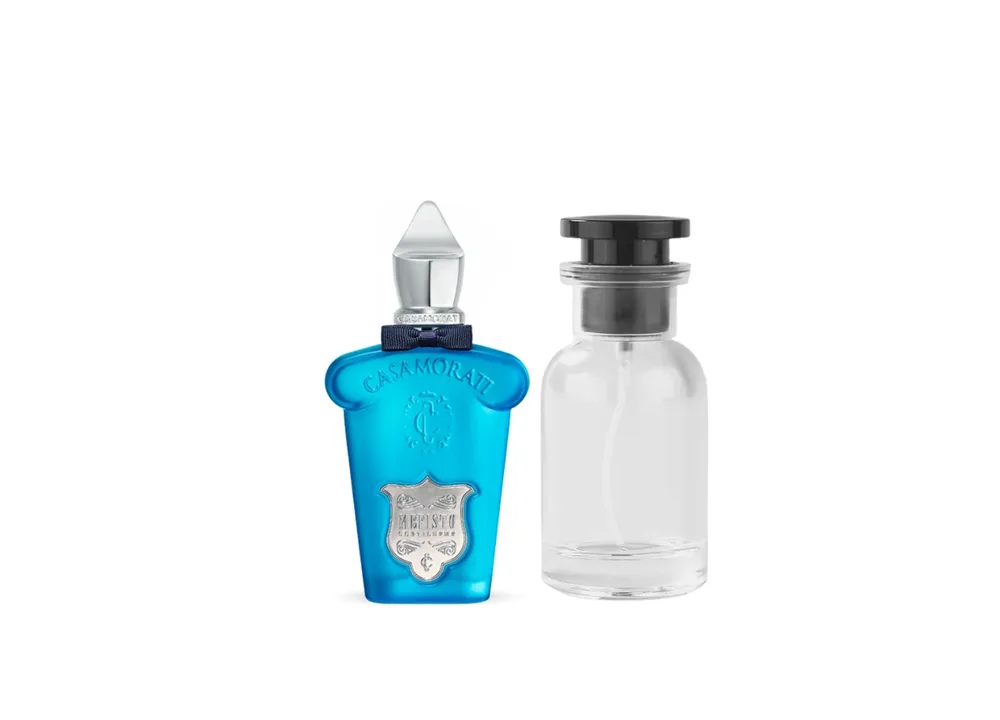
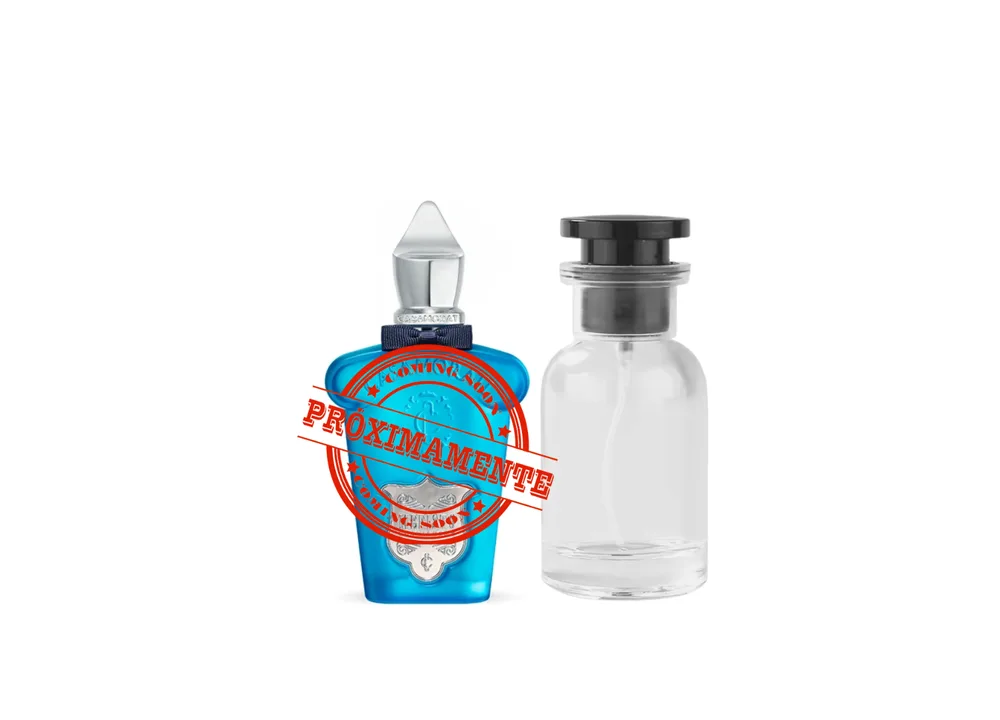
fix(catalog): update client availability and sealed perfumes
- Mefisto (150) -> Próximamente; Birth of Venus (51), Paragon (64), Toucan (137) -> disponibles
- Ani (90) -> no disponible (public:false, como Narcotic sellado)
- Toucan 20 ml: nueva foto Toucan 20ml.webp; fotos Toucan/Birth/Paragon/Mefisto regeneradas desde los PNG del cliente
- Completos: Birth of Venus 100ml S/950, Dream Sea 50ml S/675, Gris Charnel EDP 100ml S/799
- Release 20261001 + SW fo-v85; tests actualizados

Changed region(s): [[0.279, 0.4583, 0.558, 0.7639]]

diff --git a/productos.js b/productos.js
@@ -101,7 +101,7 @@
     { id: 87, name: "All Night Long", brand: "Ramón Monegal", category: "nicho", gender: "unisex", notes: "Cereza, cuero y ámbar: una noche entera, dulce y oscura.", description: "Decant premium de lujo. Original auténtico, enviado en vial de cristal con atomizador. Calidad garantizada y precio por mililitro imbatible.", fullSizes: {}, decantSizes: {1:19,2:29,3:45,5:59,10:119,30:299}, fullImage: "", decantImage: "", cardImage: "", featured: false, badge: null, badgeText: "" },
     { id: 88, name: "Flowerpower", brand: "Ramón Monegal", category: "nicho", gender: "unisex", notes: "Flores blancas, almizcle y vainilla: el poder de la flor.", description: "Decant premium de lujo. Original auténtico, enviado en vial de cristal con atomizador. Calidad garantizada y precio por mililitro imbatible.", fullSizes: {}, decantSizes: {1:19,2:29,3:45,5:59,10:119,30:299}, fullImage: "", decantImage: "", cardImage: "", featured: false, badge: null, badgeText: "" },
     { id: 89, name: "Flamenco EDP", brand: "Ramón Monegal", category: "nicho", gender: "unisex", notes: "Azafrán, rosa y ámbar: el duende del flamenco en frasco.", description: "Decant premium de lujo. Original auténtico, enviado en vial de cristal con atomizador. Calidad garantizada y precio por mililitro imbatible.", fullSizes: {}, decantSizes: {1:25,2:35,3:49,5:75,10:149,30:375}, fullImage: "", decantImage: "", cardImage: "", featured: false, badge: null, badgeText: "" },
-    { id: 90, name: "Ani", brand: "Nishane", category: "nicho", gender: "unisex", notes: "Cardamomo, vainilla y ámbar: el incienso verde y goloso.", description: "Decant premium de lujo. Original auténtico, enviado en vial de cristal con atomizador. Calidad garantizada y precio por mililitro imbatible.", fullSizes: {}, decantSizes: {1:19,2:29,3:39,5:59,10:119,30:299}, fullImage: "", decantImage: "", cardImage: "", featured: false, badge: null, badgeText: "" },
+    { id: 90, public: false, name: "Ani", brand: "Nishane", category: "nicho", gender: "unisex", notes: "Cardamomo, vainilla y ámbar: el incienso verde y goloso.", description: "Decant premium de lujo. Original auténtico, enviado en vial de cristal con atomizador. Calidad garantizada y precio por mililitro imbatible.", fullSizes: {}, decantSizes: {1:19,2:29,3:39,5:59,10:119,30:299}, fullImage: "", decantImage: "", cardImage: "", featured: false, badge: null, badgeText: "" },
     { id: 91, name: "Ani X", brand: "Nishane", category: "nicho", gender: "unisex", notes: "Vainilla, ámbar y cedro: la versión extrema del clásico Ani.", description: "Decant premium de lujo. Original auténtico, enviado en vial de cristal con atomizador. Calidad garantizada y precio por mililitro imbatible.", fullSizes: {}, decantSizes: {1:19,2:29,3:39,5:59,10:119,30:299}, fullImage: "", decantImage: "", cardImage: "", featured: false, badge: null, badgeText: "" },
     { id: 92, name: "Hacivat", brand: "Nishane", category: "nicho", gender: "unisex", notes: "Piña, bergamota y pachulí: el icónico fresco-madera.", description: "Decant premium de lujo. Original auténtico, enviado en vial de cristal con atomizador. Calidad garantizada y precio por mililitro imbatible.", fullSizes: {}, decantSizes: {1:19,2:29,3:39,5:59,10:119,30:299}, fullImage: "", decantImage: "", cardImage: "", featured: true, badge: null, badgeText: "" },
     { id: 93, name: "Deziro", brand: "Nishane", category: "nicho", gender: "unisex", notes: "Bergamota, rosa y almizcle: deseo suave y radiante.", description: "Decant premium de lujo. Original auténtico, enviado en vial de cristal con atomizador. Calidad garantizada y precio por mililitro imbatible.", fullSizes: {}, decantSizes: {1:19,2:29,3:39,5:59,10:119,30:299}, fullImage: "", decantImage: "", cardImage: "", featured: false, badge: null, badgeText: "" },
@@ -159,6 +159,9 @@
     { id: 146, name: "Dior Homme Sport", brand: "Dior", category: "disenador", gender: "masculino", notes: "Ginger, naranja y cedro: deportivo, fresco y elegante.", description: "Tester original nuevo 125ml. Sin empaque. Envío con seguro.", fullSizes: {125:390}, regularPrice: 520.00, decantSizes: {}, fullImage: "", decantImage: "", cardImage: "", sealed: true, sealedStatus: "tester", sealedSize: "125ml", featured: false, badge: null, badgeText: "" },
     { id: 147, name: "Erba Pura", brand: "Xerjoff", category: "nicho", gender: "unisex", notes: "Frutas dulces, flor de azahar y ámbar: la fruta mágica y luminosa.", description: "Parcial al 99% 100ml. Sin empaque. Envío con seguro.", fullSizes: {100:630}, decantSizes: {}, fullImage: "", decantImage: "", cardImage: "", sealed: true, sealedStatus: "parcial", sealedSize: "100ml", contentPercent: 99, featured: false, badge: null, badgeText: "" },
     { id: 148, name: "Lamar Kajal", brand: "Lamar", category: "nicho", gender: "unisex", notes: "Vainilla, ámbar y especias: cálido, envolvente y sensual.", description: "Parcial con caja al 99% 100ml. Envío con seguro.", fullSizes: {100:650}, decantSizes: {}, fullImage: "", decantImage: "", cardImage: "", sealed: true, sealedStatus: "parcial", sealedSize: "100ml", contentPercent: 99, featured: false, badge: null, badgeText: "" },
+    { id: 151, name: "Birth of Venus", brand: "Argos", category: "nicho", gender: "unisex", notes: "Miel, cítricos y ámbar: el nacimiento luminoso de la diosa.", description: "Frasco sellado original 100ml. Incluye caja y empaque original. Envío con seguro.", fullSizes: {100:950}, decantSizes: {}, fullImage: "", decantImage: "", cardImage: "", sealed: true, sealedStatus: "sellado", sealedSize: "100ml", featured: false, badge: null, badgeText: "" },
+    { id: 152, name: "Dream Sea", brand: "Lorenzo Pazzaglia", category: "nicho", gender: "unisex", notes: "Melón, notas marinas y ámbar: un sueño salado y frutal.", description: "Frasco sellado original 50ml. Incluye caja y empaque original. Envío con seguro.", fullSizes: {50:675}, decantSizes: {}, fullImage: "", decantImage: "", cardImage: "", sealed: true, sealedStatus: "sellado", sealedSize: "50ml", featured: false, badge: null, badgeText: "" },
+    { id: 153, name: "Gris Charnel EDP", brand: "BDK Parfums", category: "nicho", gender: "unisex", notes: "Cardamomo, té negro y sándalo: la piel gris, cremosa y sensual.", description: "Frasco sellado original 100ml. Incluye caja y empaque original. Envío con seguro.", fullSizes: {100:799}, decantSizes: {}, fullImage: "", decantImage: "", cardImage: "", sealed: true, sealedStatus: "sellado", sealedSize: "100ml", featured: false, badge: null, badgeText: "" },
 
 
   ];
@@ -334,7 +337,7 @@
     134: { main: "img/perfumes_optimized/ONE MILLION PARFUM.webp", sizes: { "10_premium": "img/perfumes_optimized/ONE MILLION PARFUM decant premium 10 ml.webp", "30": "img/perfumes_optimized/ONE MILLION PARFUM 30ml.webp", "5_premium": "img/perfumes_optimized/ONE MILLION PARFUM decant premium 5ml.webp" } },
     135: { main: "img/perfumes_optimized/ALLURE HOMME SPORT EXTREME.webp", sizes: { "5_premium": "img/perfumes_optimized/ALLURE HOMME SPORT EXTREME decant premium 5ml.webp" } },
     136: { main: "img/perfumes_optimized/RED WINE BROWN SUGAR.webp", sizes: { "10_premium": "img/perfumes_optimized/RED WINE BROWN SUGAR decant premium 10 ml.webp", "20": "img/perfumes_optimized/RED WINE BROWN SUGAR 20ml.webp", "5_premium": "img/perfumes_optimized/RED WINE BROWN SUGAR decant premium 5ml.webp" } },
-    137: { main: "img/perfumes_optimized/Toucan.webp", sizes: { "10_premium": "img/perfumes_optimized/Toucan decant premium 10 ml.webp", "20": "img/perfumes_optimized/Toucan 30ml.webp", "5_premium": "img/perfumes_optimized/Toucan decant premium 5ml.webp" } },
+    137: { main: "img/perfumes_optimized/Toucan.webp", sizes: { "10_premium": "img/perfumes_optimized/Toucan decant premium 10 ml.webp", "20": "img/perfumes_optimized/Toucan 20ml.webp", "5_premium": "img/perfumes_optimized/Toucan decant premium 5ml.webp" } },
     138: { main: "img/perfumes_optimized/LOVERBIRD.webp", sizes: { "10_premium": "img/perfumes_optimized/LOVERBIRD decant premium 10 ml.webp", "20": "img/perfumes_optimized/LOVERBIRD 30ml.webp", "5_premium": "img/perfumes_optimized/LOVERBIRD decant premium 5ml.webp" } },
     139: { main: "img/perfumes_optimized/EDEN ROCK.webp", sizes: { "10_premium": "img/perfumes_optimized/EDEN ROCK decant premium 10 ml.webp", "30": "img/perfumes_optimized/EDEN ROCK 30ml.webp", "5_premium": "img/perfumes_optimized/EDEN ROCK decant premium 5ml.webp" } },
     140: { main: "img/perfumes_optimized/Fierezza.webp", sizes: { "10_premium": "img/perfumes_optimized/Fierezza decant premium 10 ml.webp", "30": "img/perfumes_optimized/Fierezza 30ml.webp", "5_premium": "img/perfumes_optimized/Fierezza decant premium 5ml.webp" } },
@@ -348,6 +351,9 @@
     148: { main: "img/perfumes_optimized/LAMAR KAJAL 100ML PARCIAL.webp", sizes: {} },
     149: { main: "img/perfumes_optimized/Babycat Yves Saint Laurent Raw Bourbon.webp", sizes: { "5": "img/perfumes_optimized/Babycat Yves Saint Laurent Raw Bourbon decant premium 5ml.webp", "5_premium": "img/perfumes_optimized/Babycat Yves Saint Laurent Raw Bourbon decant premium 5ml.webp", "10": "img/perfumes_optimized/Babycat Yves Saint Laurent Raw Bourbon decant premium 10ml.webp", "10_premium": "img/perfumes_optimized/Babycat Yves Saint Laurent Raw Bourbon decant premium 10ml.webp", "30": "img/perfumes_optimized/Babycat Yves Saint Laurent Raw Bourbon 30ml.webp" } },
     150: { main: "img/perfumes_optimized/MEFISTO.webp", sizes: { "5": "img/perfumes_optimized/MEFISTO decant premium 5ml.webp", "5_premium": "img/perfumes_optimized/MEFISTO decant premium 5ml.webp", "10": "img/perfumes_optimized/MEFISTO decant premium 10 ml.webp", "10_premium": "img/perfumes_optimized/MEFISTO decant premium 10 ml.webp", "30": "img/perfumes_optimized/MEFISTO 30ml.webp" } },
+    151: { main: "img/perfumes_optimized/BIRTH OF VENUS.webp", sizes: {} },
+    152: { main: "img/perfumes_optimized/DREAM SEA.webp", sizes: {} },
+    153: { main: "img/perfumes_optimized/GRIS CHARNEL EDP.webp", sizes: {} },
   };
   Object.entries(w.FO_PRODUCT_IMAGES).forEach(([id, imgs]) => {
     const p = w.FO_PRODUCTS.find((x) => x.id === Number(id));

diff --git a/tests/e2e/completos.spec.js b/tests/e2e/completos.spec.js
@@ -24,8 +24,8 @@ test('Completos nav clears stale filters, wraps vertically and survives Back/For
   await expect(page.locator('#nav')).not.toHaveClass(/open/);
   await expect(page.locator('#filtersCategory [data-filter="completos"]')).toHaveAttribute('aria-pressed', 'true');
   const cards = page.locator('#catalogGrid .product-card');
-  await expect(cards).toHaveCount(7);
-  expect(await cards.evaluateAll((els) => els.map((el) => Number(el.dataset.productId)))).toEqual([141, 142, 143, 145, 146, 147, 148]);
+  await expect(cards).toHaveCount(10);
+  expect(await cards.evaluateAll((els) => els.map((el) => Number(el.dataset.productId)))).toEqual([141, 142, 143, 145, 146, 147, 148, 151, 152, 153]);
   const layout = await page.locator('#catalogGrid').evaluate((el) => {
     const style = getComputedStyle(el);
     const rows = new Set([...el.querySelectorAll('.product-card')].map((card) => Math.round(card.getBoundingClientRect().top)));
@@ -36,11 +36,11 @@ test('Completos nav clears stale filters, wraps vertically and survives Back/For
   await page.goBack();
   await expect(page.locator('#filtersCategory [data-filter="todos"]')).toHaveAttribute('aria-pressed', 'true');
   await page.goForward();
-  await expect(cards).toHaveCount(7);
+  await expect(cards).toHaveCount(10);
   await expect(page.locator('#filtersCategory [data-filter="completos"]')).toHaveAttribute('aria-pressed', 'true');
   await page.reload();
   await expect(page.locator('#loadingScreen')).toBeHidden({ timeout: 5000 });
-  await expect(cards).toHaveCount(7);
+  await expect(cards).toHaveCount(10);
   await openNavLink(page, 'Inicio');
   await openNavLink(page, 'Completos');
   await page.locator('#catalogGrid [data-product-id="142"]').click();
@@ -48,7 +48,8 @@ test('Completos nav clears stale filters, wraps vertically and survives Back/For
 });
 
 test('Six affected decants share availability and canonical photos in cards and modals', async ({ page }) => {
-  const requested = [[140, 'Fierezza', false], [55, 'Porthole', true], [78, 'Gentle Fluidity Silver', true], [81, 'Gris Charnel EDP', false], [90, 'Ani', false], [100, 'Castley', false]];
+  test.setTimeout(120000); // 8 fichas × catálogo + modal: en WebKit móvil excede los 60 s por defecto
+  const requested = [[140, 'Fierezza', false], [55, 'Porthole', true], [78, 'Gentle Fluidity Silver', true], [81, 'Gris Charnel EDP', false], [100, 'Castley', false], [51, 'Birth of Venus', false], [64, 'Paragon', false], [137, 'Toucan', false], [150, 'Mefisto Gentiluomo', true]];
   const fierezza = page.locator('#featuredGrid [data-product-id="140"]');
   await expect(fierezza.locator('.btn-add')).toBeEnabled();
   await expect(fierezza.locator('.product-badge').filter({ hasText: 'Próximamente' })).toHaveCount(0);
@@ -74,6 +75,8 @@ test('Six affected decants share availability and canonical photos in cards and 
     await page.locator('#modalOverlay .modal-close').click();
   }
   await openNavLink(page, 'Catálogo');
+  await page.locator('#catalogSearch').fill('Ani');
+  await expect(page.locator('#catalogGrid [data-product-id="90"]')).toHaveCount(0); // Ani: NO DISPONIBLE (cliente 01/10)
   await page.locator('#catalogSearch').fill('Narcotic Delight');
   await expect(page.locator('#catalogGrid [data-product-id="62"]')).toBeVisible();
   await expect(page.locator('#catalogGrid [data-product-id="144"]')).toHaveCount(0);
@@ -84,7 +87,7 @@ test('Header fits and Completos wraps across the requested responsive widths', a
   for (const width of [320, 360, 390, 430, 768, 900, 1024, 1280, 1366, 1440]) {
     await page.setViewportSize({ width, height: 900 });
     await openNavLink(page, 'Completos');
-    await expect(page.locator('#catalogGrid .product-card')).toHaveCount(7);
+    await expect(page.locator('#catalogGrid .product-card')).toHaveCount(10);
     const header = await page.evaluate(() => {
       const rect = (selector) => document.querySelector(selector).getBoundingClientRect();
       const logo = rect('.header-inner .logo'), nav = rect('#nav'), actions = rect('.header-actions');

diff --git a/tests/qa-catalog.js b/tests/qa-catalog.js
@@ -44,7 +44,9 @@ const checks = [
   { id: 72, expect: "Mezzo" },
   { id: 83, expect: "Pas Ce Soir Extrait" },
   { id: 81, expect: "Gris Charnel EDP" },
-  { id: 90, expect: "ANI" },
+  { id: 51, expect: "Birth of Venus" },
+  { id: 64, expect: "Paragon" },
+  { id: 137, expect: "Toucan" },
 ];
 
 console.log("\n=== DISPONIBLES CONFIRMADOS ===");
@@ -58,9 +60,9 @@ checks.forEach(function(c) {
     "name=" + (p ? p.name : "NOT FOUND") + " brand=" + (p ? p.brand : "?") + " prox=" + inProx + " purchasable=" + purchasable);
 });
 
-// 2. Paragon should be back in PROXIMAMENTE
+// 2. Paragon disponible (cliente 01/10)
 console.log("\n=== PARAGON ===");
-check("Paragon(64) in PROXIMAMENTE", proxArr.includes(64), "");
+check("Paragon(64) NOT in PROXIMAMENTE", !proxArr.includes(64), "");
 
 // 3. Babycat
 console.log("\n=== BABYCAT ===");
@@ -81,7 +83,7 @@ console.log("\n=== MEFISTO ===");
 const m = findProduct(150);
 const mProx = proxArr.includes(150);
 check("Mefisto(150) exists", !!m, "");
-check("Mefisto NOT in PROXIMAMENTE", !mProx, "prox=" + mProx);
+check("Mefisto in PROXIMAMENTE (cliente 01/10)", mProx, "prox=" + mProx);
 check("Mefisto brand=Xerjoff", m && m.brand === "Xerjoff", "brand=" + (m ? m.brand : "?"));
 check("Mefisto has decants", m && m.hasDecants, "");
 // El catálogo del cliente confirmó "Mefisto Gentiluomo" (línea Casamorati
@@ -112,7 +114,6 @@ const imgChecks = [
   [72, "Mezzo.webp"],
   [83, "PAS CE SOIR EXRAIT.webp"],
   [81, "GRIS CHARNEL EDP.webp"],
-  [90, "ANI.webp"],
 ];
 imgChecks.forEach(function([id, file]) {
   check("img " + id + " " + file, fs.existsSync(path.join(imgDir, file)), file);
@@ -175,7 +176,8 @@ const inventory = catalogWindow.FO_PRODUCTS;
 const requested = [
   [140, "Fierezza", false], [55, "Porthole", true],
   [78, "Gentle Fluidity Silver", true], [81, "Gris Charnel EDP", false],
-  [90, "Ani", false], [100, "Castley", false],
+  [100, "Castley", false], [51, "Birth of Venus", false], [64, "Paragon", false],
+  [137, "Toucan", false], [150, "Mefisto Gentiluomo", true],
 ];
 requested.forEach(([id, name, soon]) => {
   const product = inventory.find((p) => p.id === id);
@@ -185,6 +187,13 @@ requested.forEach(([id, name, soon]) => {
 });
 check("Narcotic full bottle retained as historical data", inventory.some((p) => p.id === 144 && p.fullSizes[90] === 860), "");
 check("Narcotic full bottle absent from public inventory", !inventory.filter((p) => p.public !== false && p.sealed).some((p) => p.id === 144), "");
+check("Ani(90) NO DISPONIBLE: retirado del inventario público", inventory.some((p) => p.id === 90 && p.public === false) && !proxArr.includes(90), "");
+check("Toucan 20ml (decant) with its own image", inventory.some((p) => p.id === 137 && p.decantSizes[20] && /Toucan 20ml\.webp$/.test(p.sizeImages["20"])), "");
+[[151, "Birth of Venus", "Argos", 100, 950], [152, "Dream Sea", "Lorenzo Pazzaglia", 50, 675], [153, "Gris Charnel EDP", "BDK Parfums", 100, 799]].forEach(([id, name, brand, ml, price]) => {
+  const p = inventory.find((x) => x.id === id);
+  check(`Sealed ${name} ${ml}ml S/${price}`, !!p && p.name === name && p.brand === brand && p.sealed && p.sealedStatus === "sellado" && p.sealedSize === ml + "ml" && p.fullSizes[ml] === price && p.public !== false && !proxArr.includes(id), "");
+  check(`Sealed ${name} image exists`, !!p && fs.existsSync(path.join(ROOT, p.cardImage)), "");
+});
 check("Narcotic decant stays public", inventory.some((p) => p.id === 62 && p.public !== false && Object.keys(p.decantSizes).length > 0), "");
 
 console.log("\n=== RESULTADO ===");

diff --git a/tests/selftest.js b/tests/selftest.js
@@ -237,7 +237,7 @@ step(function () {
         // tarjetas, sin duplicados (ver bug de load-more/slice corregido
         // en renderCatalog).
         var filteredCount = window.FO_PRODUCTS.filter(function (p) {
-          return (!p.type || p.type === "product") && !p.tester && !p.sealed && p.category === "nicho";
+          return (!p.type || p.type === "product") && p.public !== false && !p.tester && !p.sealed && p.category === "nicho";
         }).length;
         ok(gridCount() === filteredCount, "catalogNichoFiltered", "grid=" + gridCount() + " esperado=" + filteredCount);
         const cardCount = document.querySelectorAll("#catalogGrid .product-card").length;
@@ -321,7 +321,7 @@ ok(gridCount() === 24, "catalogBackInitial24", "initial grid=" + gridCount());
         window.__chains -= 1;
         // vuelta a nicho: mismo comportamiento incremental, mismo total real
         var filteredCount = window.FO_PRODUCTS.filter(function (p) {
-          return (!p.type || p.type === "product") && !p.tester && !p.sealed && p.category === "nicho";
+          return (!p.type || p.type === "product") && p.public !== false && !p.tester && !p.sealed && p.category === "nicho";
         }).length;
         ok(gridCount() === filteredCount, "catalogBackFiltered", "grid=" + gridCount() + " esperado=" + filteredCount);
       }
@@ -340,7 +340,7 @@ ok(gridCount() === 24, "catalogBackInitial24", "initial grid=" + gridCount());
   step(function () {
     var byLetter = {};
     window.FO_PRODUCTS.filter(function (p) {
-      return (!p.type || p.type === "product") && !p.tester && !p.sealed && p.category === "nicho";
+      return (!p.type || p.type === "product") && p.public !== false && !p.tester && !p.sealed && p.category === "nicho";
     }).forEach(function (p) {
       var letter = (p.brand || "").charAt(0).normalize("NFD").replace(/[\u0300-\u036f]/g, "").toUpperCase();
       var counts = byLetter[letter] || (byLetter[letter] = {});

diff --git a/config.js b/config.js
@@ -153,11 +153,13 @@ window.FO_CONFIG = {
      a la venta: se mostrarán con el badge "Próximamente", botón
      deshabilitado y aviso de reserva en el modal.
      Ejemplo: PROXIMAMENTE: [42, 73] */
-  PROXIMAMENTE: [9, 10, 19, 37, 40, 41, 51, 55, 60, 63, 64, 78, 79, 95, 101, 103, 137, 138], // Ichigo Ichie, Last Birthday Cake, Mango Kiss, Que Chimba, Speachless, Evil Angel, Birth of Venus, Porthole, Tropikalys Karma, Musk Therapy, Paragon, Gentle Fluidity Silver, Grand Soir, Wulong Cha X, Sedley, Malibú Party, Toucan, Loverbird
-  /* Disponibles: Fierezza (140), Gris Charnel EDP (81), Ani (90), Castley
+  PROXIMAMENTE: [9, 10, 19, 37, 40, 41, 55, 60, 63, 78, 79, 95, 101, 103, 138, 150], // Ichigo Ichie, Last Birthday Cake, Mango Kiss, Que Chimba, Speachless, Evil Angel, Porthole, Tropikalys Karma, Musk Therapy, Gentle Fluidity Silver, Grand Soir, Wulong Cha X, Sedley, Malibú Party, Loverbird, Mefisto Gentiluomo
+  /* Disponibles: Fierezza (140), Gris Charnel EDP (81), Birth of Venus (51),
+     Paragon (64), Toucan (137, 20 ml), Castley
      decant (100) y sellado (142), y Narcotic Delight decant (62).
      Narcotic Delight sellado (144) se conserva como dato histórico y está
-     retirado del inventario público mediante public: false en productos.js. */
+     retirado del inventario público mediante public: false en productos.js.
+     Ani decant (90) quedó NO DISPONIBLE (cliente 01/10): también public: false. */
 
   /* ── FRAGANCIAS DESTACADAS (Home) ────────────────────────────────
      Orden EXACTO confirmado por el cliente. Se renderiza vía

diff --git a/index.html b/index.html
@@ -138,7 +138,7 @@
     })();
   </script>
 
-  <link rel="stylesheet" href="styles.css?v=20260917" />
+  <link rel="stylesheet" href="styles.css?v=20261001" />
 </head>
 <body>
   <!-- Loading Screen -->
@@ -1014,7 +1014,7 @@
   <!-- Animation libraries (orden importa: GSAP → ScrollTrigger → app → animations) -->
   <script src="https://cdnjs.cloudflare.com/ajax/libs/gsap/3.12.5/gsap.min.js" defer></script>
   <script src="https://cdnjs.cloudflare.com/ajax/libs/gsap/3.12.5/ScrollTrigger.min.js" defer></script>
-  <script src="config.js?v=20260917" defer></script>
+  <script src="config.js?v=20261001" defer></script>
   <script>
     /* URLs canónicas dinámicas: respetan la URL real (GitHub Pages, localhost o dominio propio). */
     (function () {
@@ -1028,11 +1028,11 @@
       } catch (e) {}
     })();
   </script>
-  <script src="descuentos.js?v=20260917" defer></script>
-  <script src="productos.js?v=20260917" defer></script>
-  <script src="hero-stats.js?v=20260917" defer></script>
-  <script src="animations.js?v=20260917" defer></script>
-  <script src="script.js?v=20260917" defer></script>
+  <script src="descuentos.js?v=20261001" defer></script>
+  <script src="productos.js?v=20261001" defer></script>
+  <script src="hero-stats.js?v=20261001" defer></script>
+  <script src="animations.js?v=20261001" defer></script>
+  <script src="script.js?v=20261001" defer></script>
 
   <!-- Senja (reseñas reales): terceros, script público, async, se carga una
        sola vez y no bloquea el first paint. iframeResizer solo ajusta la

diff --git a/tests/release-coherence.js b/tests/release-coherence.js
@@ -5,7 +5,7 @@ const http = require("http");
 const path = require("path");
 
 const root = path.resolve(__dirname, "..");
-const release = "20260917";
+const release = "20261001";
 const critical = ["styles.css", "config.js", "descuentos.js", "productos.js", "hero-stats.js", "animations.js", "script.js"];
 const legacyAssets = Object.fromEntries(critical.map((file) => [file, file.endsWith(".css") ? "button{font:caption}" : "window.LEGACY_APP=true"]));
 const legacyWorker = `
@@ -108,7 +108,7 @@ function send(res, body, extension) {
   await offlineContext.setOffline(true);
   await offlinePage.reload({ waitUntil: "domcontentloaded" });
   assert.strictEqual(await offlinePage.locator(".off-title").innerText(), "Estás sin conexión");
-  assert.strictEqual(await offlinePage.locator('link[href="styles.css?v=20260917"]').evaluate((element) => !!element.sheet), true);
+  assert.strictEqual(await offlinePage.locator('link[href="styles.css?v=20261001"]').evaluate((element) => !!element.sheet), true);
   await offlineContext.setOffline(false);
 
   const noJs = await browser.newContext({ javaScriptEnabled: false, serviceWorkers: "block" });

diff --git a/admin.html b/admin.html
@@ -17,7 +17,7 @@
       catch (e) { document.documentElement.setAttribute("data-theme", "light"); }
     })();
   </script>
-  <link rel="stylesheet" href="styles.css?v=20260917" />
+  <link rel="stylesheet" href="styles.css?v=20261001" />
   <style>
     .adm-wrap { max-width: 1100px; margin: 0 auto; padding: 2.5rem 1.2rem 4rem; }
     .adm-head { display: flex; align-items: center; gap: .8rem; margin-bottom: 1.6rem; flex-wrap: wrap; }
@@ -102,7 +102,7 @@
     <div class="adm-orders" id="ordersList"></div>
   </div>
 
-  <script src="config.js?v=20260917"></script>
+  <script src="config.js?v=20261001"></script>
   <script>
     (function () {
       "use strict";

diff --git a/offline.html b/offline.html
@@ -11,7 +11,7 @@
   <link rel="preconnect" href="https://fonts.gstatic.com" crossorigin />
   <link rel="stylesheet"
     href="https://fonts.googleapis.com/css2?family=Cormorant+Garamond:wght@400;500;600&family=Jost:wght@300;400;500;600&display=swap" />
-  <link rel="stylesheet" href="styles.css?v=20260917" />
+  <link rel="stylesheet" href="styles.css?v=20261001" />
   <style>
     .off-wrap {
       min-height: 100vh; display: flex; flex-direction: column;

diff --git a/sw.js b/sw.js
@@ -6,8 +6,8 @@
  * OJO: si algún día se vuelve a cache-first para assets, CADA deploy
  * DEBE bumpear VERSION o los clientes se quedan con código viejo.
  */
-const RELEASE = "20260917";
-const VERSION = "fo-v84-gfs-stamped-images";
+const RELEASE = "20261001";
+const VERSION = "fo-v85-client-availability";
 const CORE_CACHE = `core-${VERSION}`;
 const IMG_CACHE = `img-${VERSION}`;
 const FONT_CACHE = `font-${VERSION}`;
